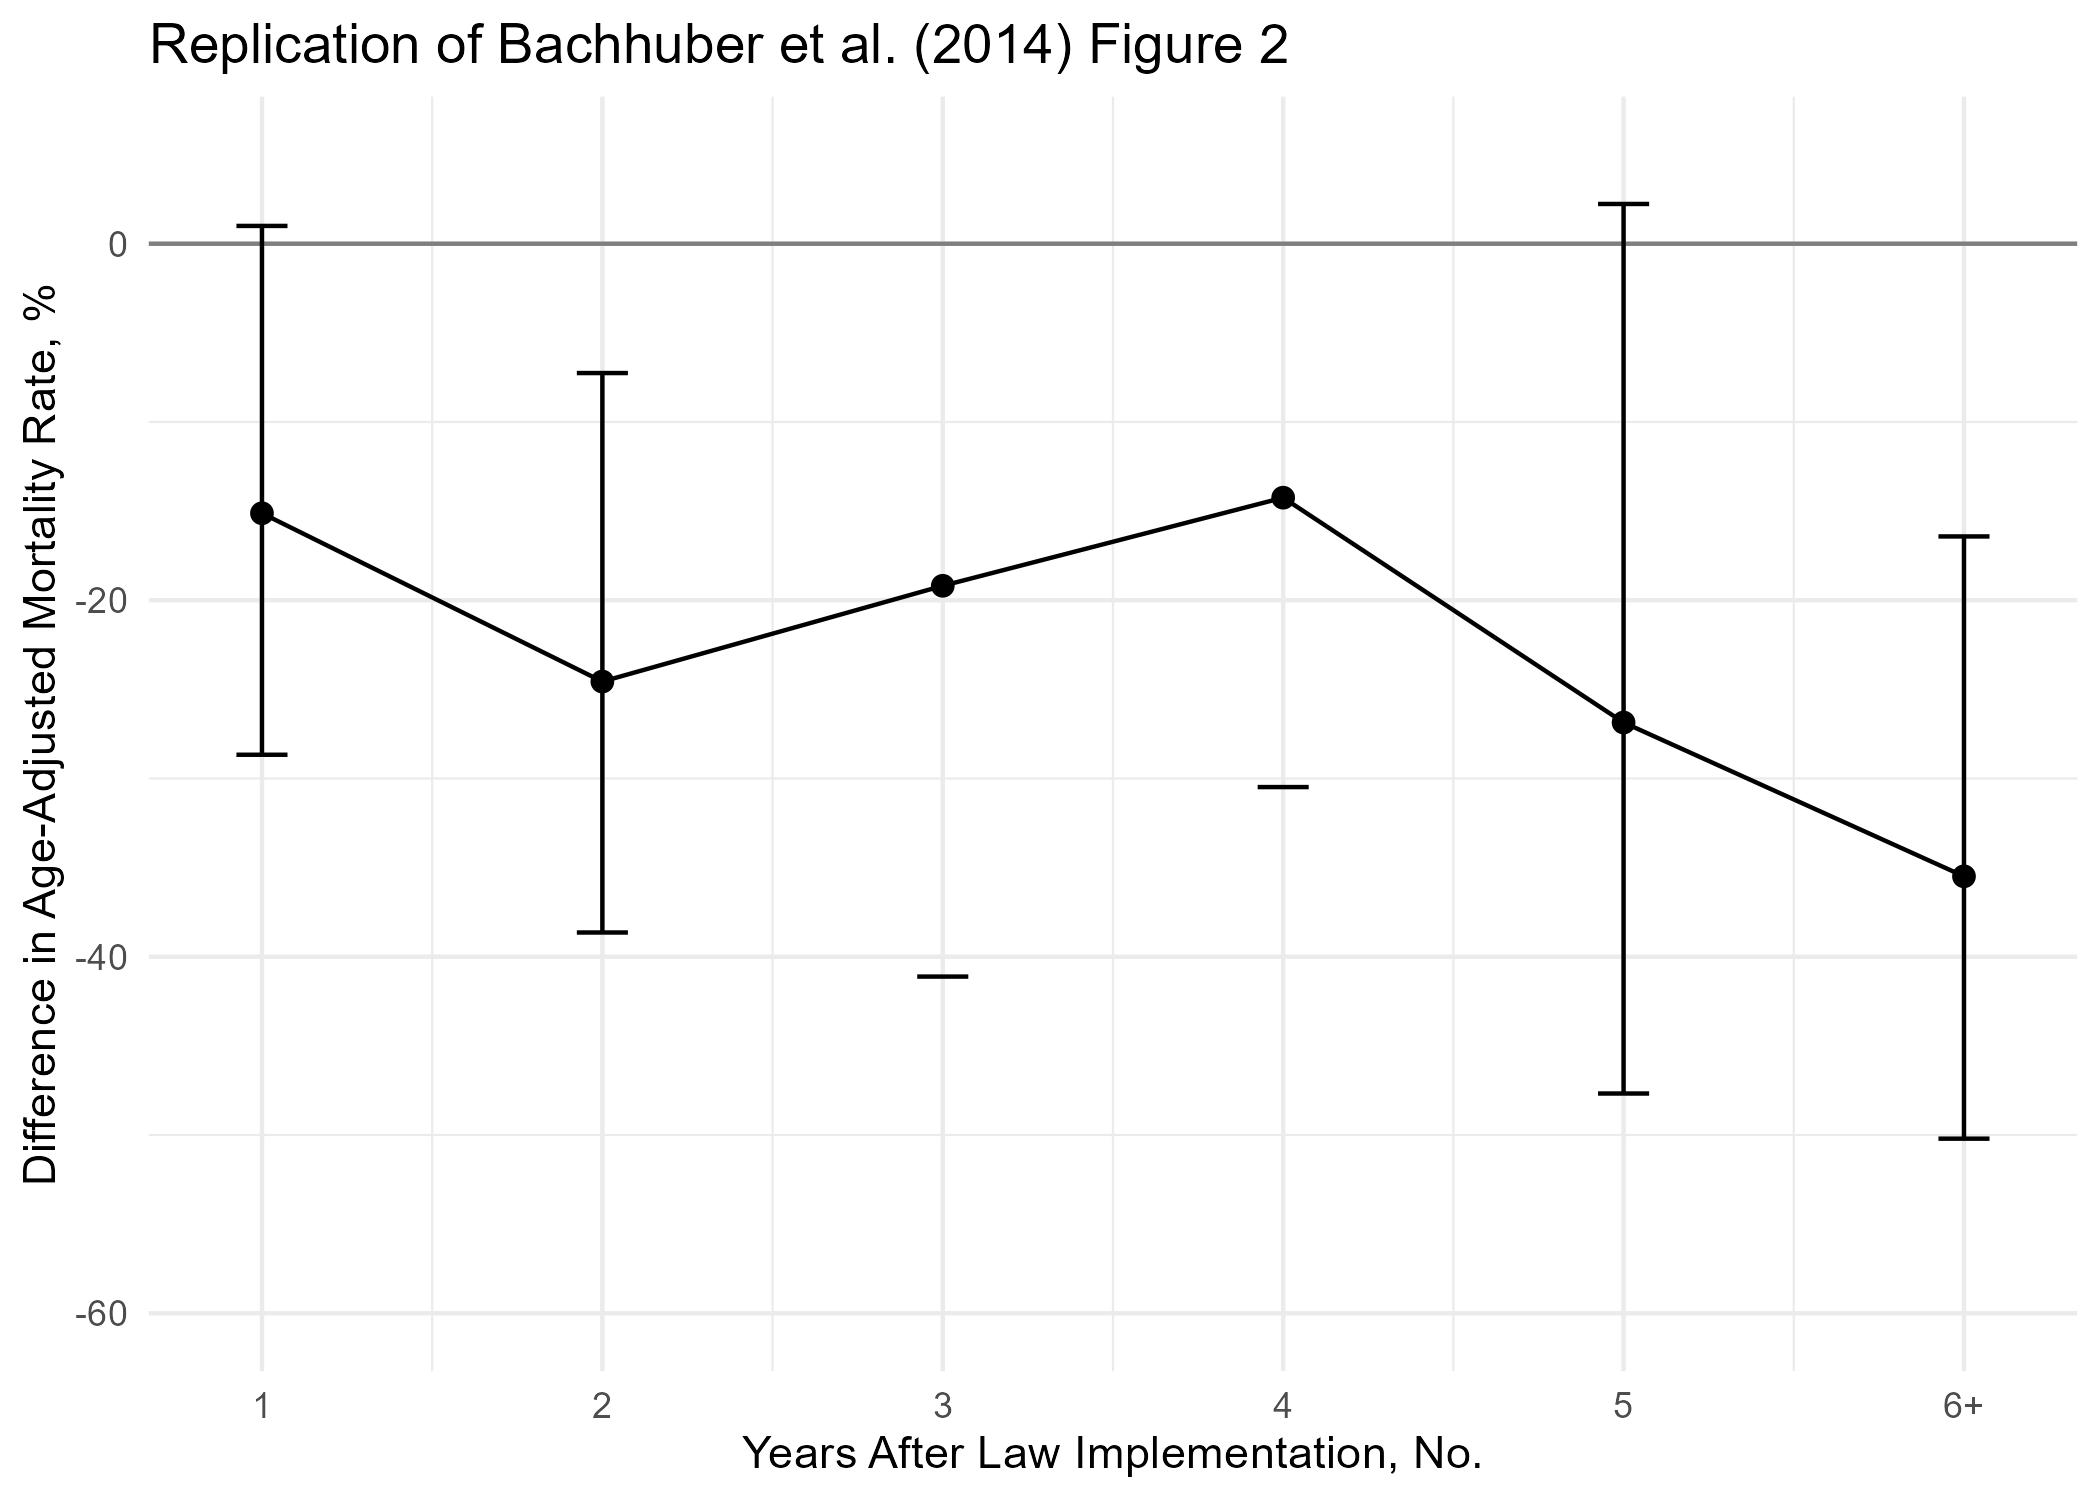
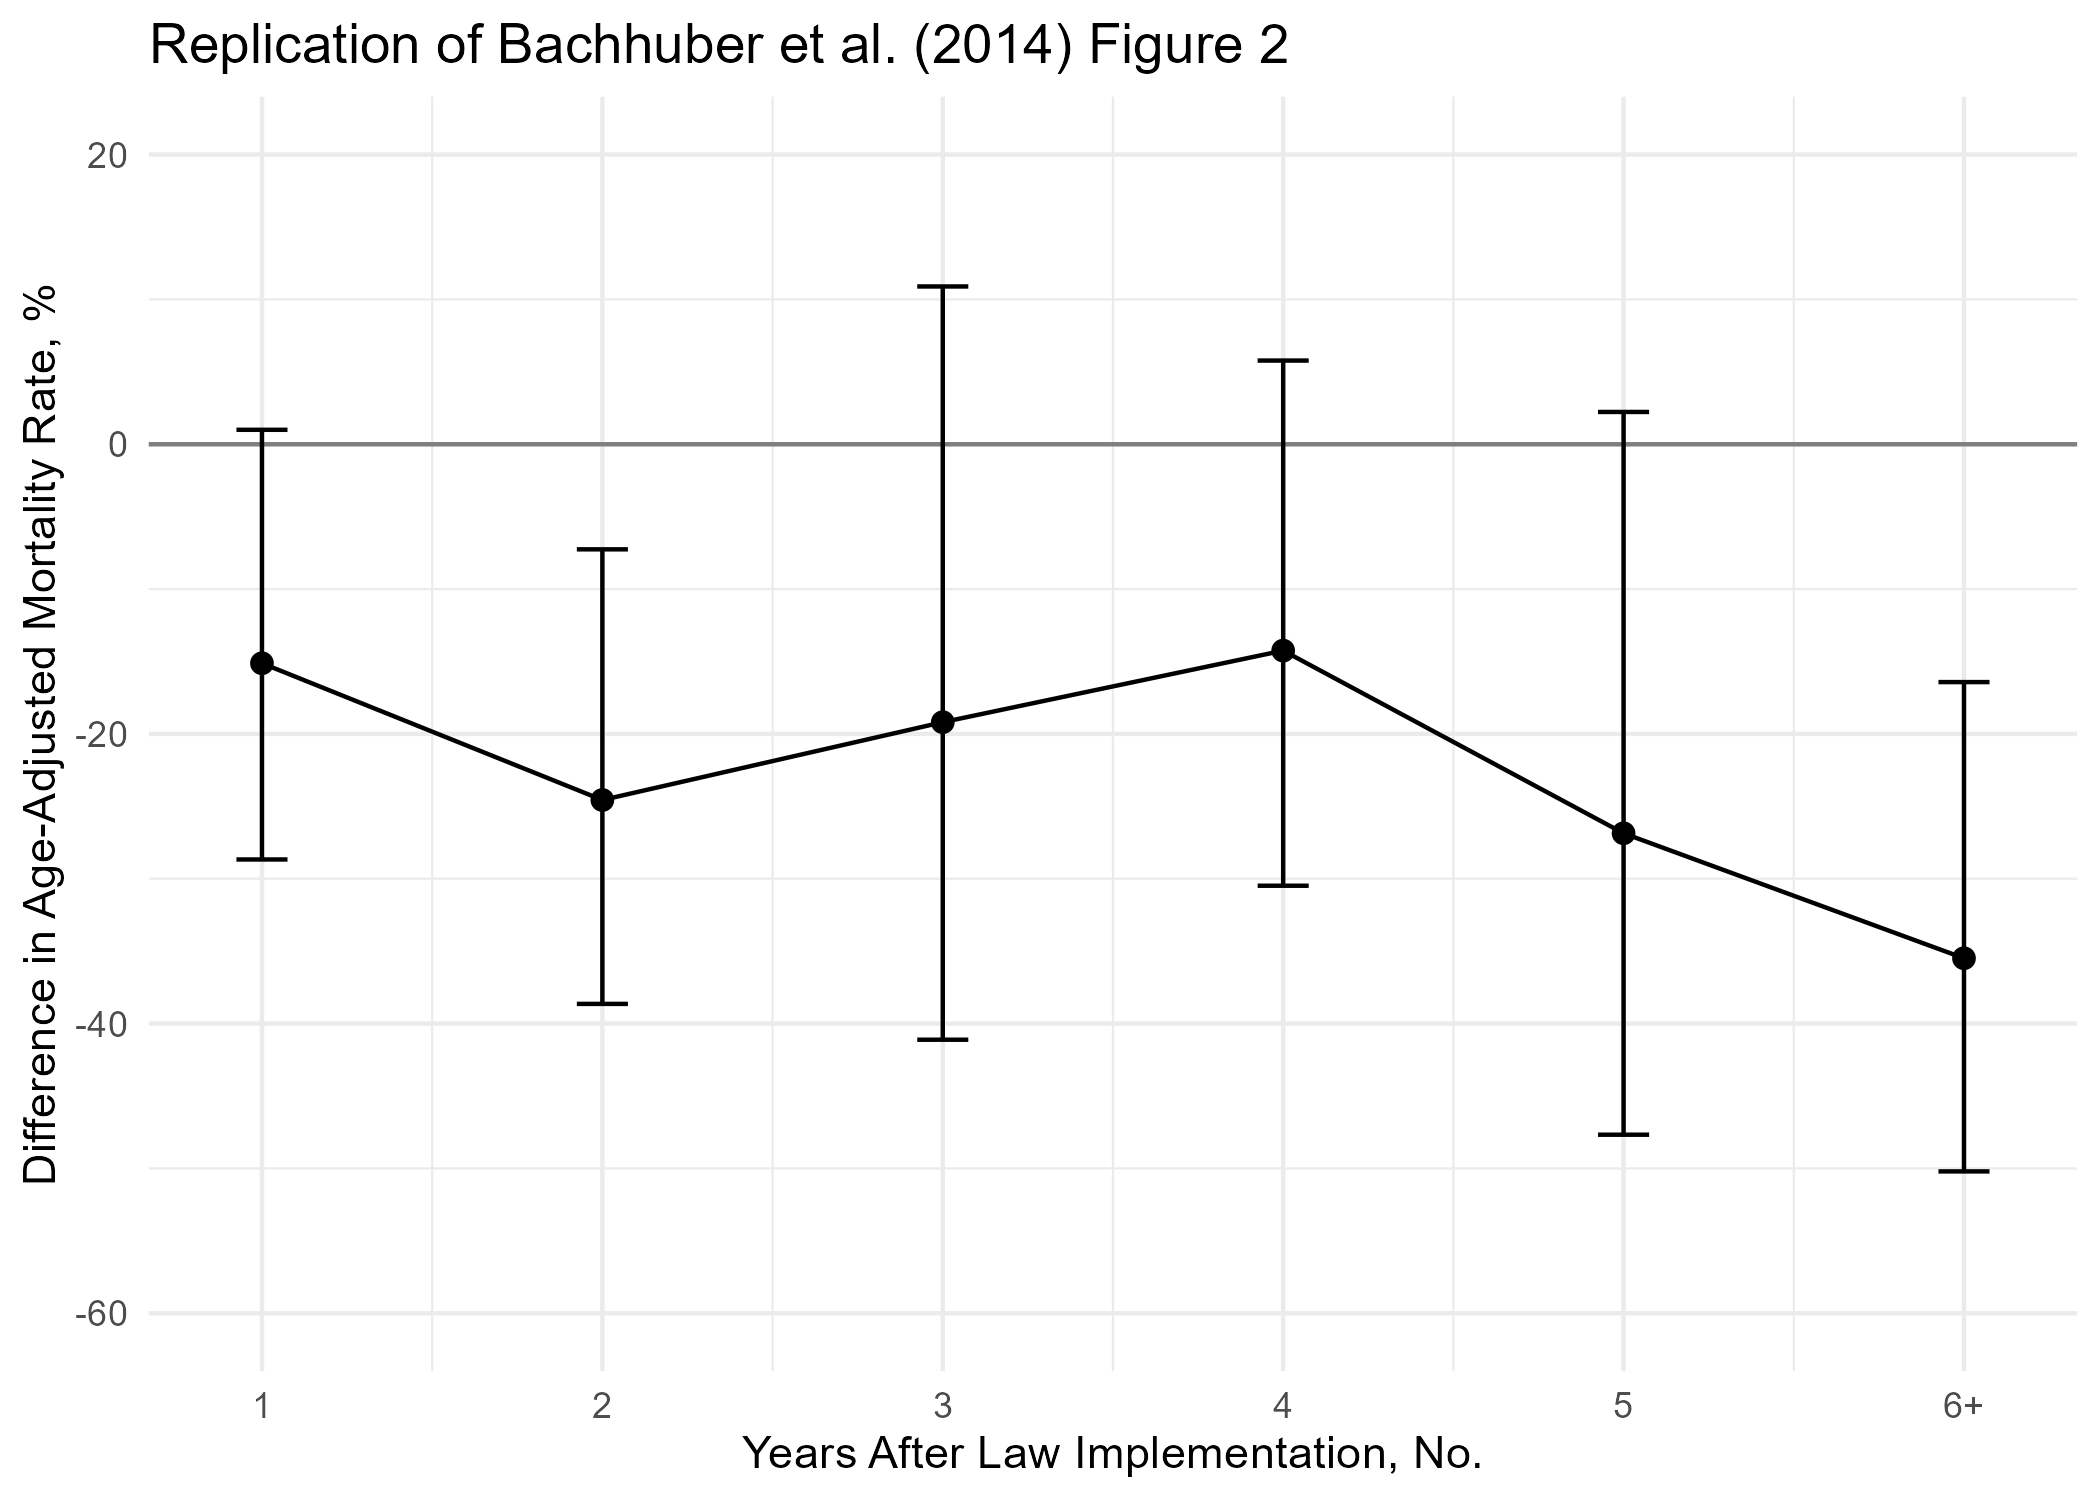
Fix error bars in Figure 2 of Bachhuber

diff --git a/README.md b/README.md
@@ -1,8 +1,10 @@
-# Replication of Shover et al. (2019) and Bachhuber et al. (2014): medical cannabis laws and opioid overdose mortality
+# Replication of Shover et al. (2019) 
 
 This repository replicates:
 
 - **Shover, C. L., Davis, C. S., Gordon, S. C., & Humphreys, K. (2019).** "Association between medical cannabis laws and opioid overdose mortality has reversed over time." *Proceedings of the National Academy of Sciences*, 116(26), 12624–12626. https://doi.org/10.1073/pnas.1903434116
+
+As Shover et al. (2019) is an extension of another paper, I also replicate the original paper:
 - **Bachhuber, M. A., Saloner, B., Cunningham, C. O., & Barry, C. L. (2014).** "Medical cannabis laws and opioid analgesic overdose mortality in the United States, 1999–2010." *JAMA Internal Medicine*, 174(10), 1668–1673.
 
 Bachhuber et al. found that state medical cannabis laws were associated with 24.8% lower opioid analgesic overdose mortality over 1999–2010. Using the same model and data through 2017, Shover et al. found that the association reversed to +22.7%. I replicate Table 1 and Figure 1 of Shover et al. and Figures 1 and 2 of Bachhuber et al. I do this twice: with the authors' replication data, and with data I downloaded myself from publicly available sources
